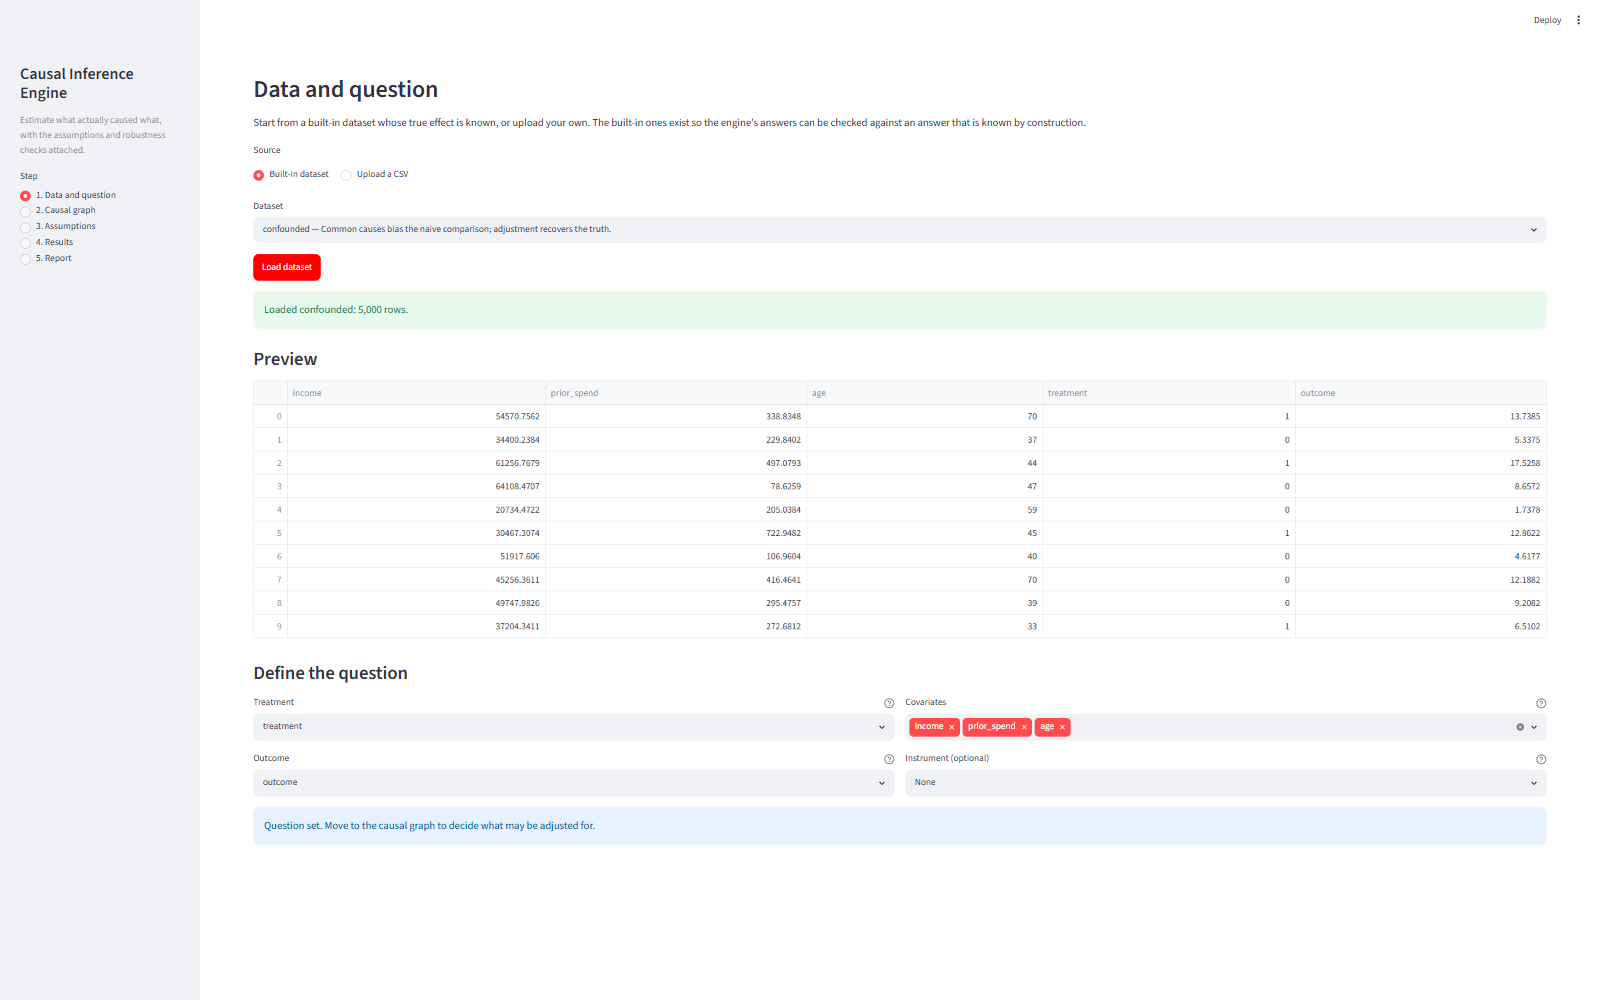
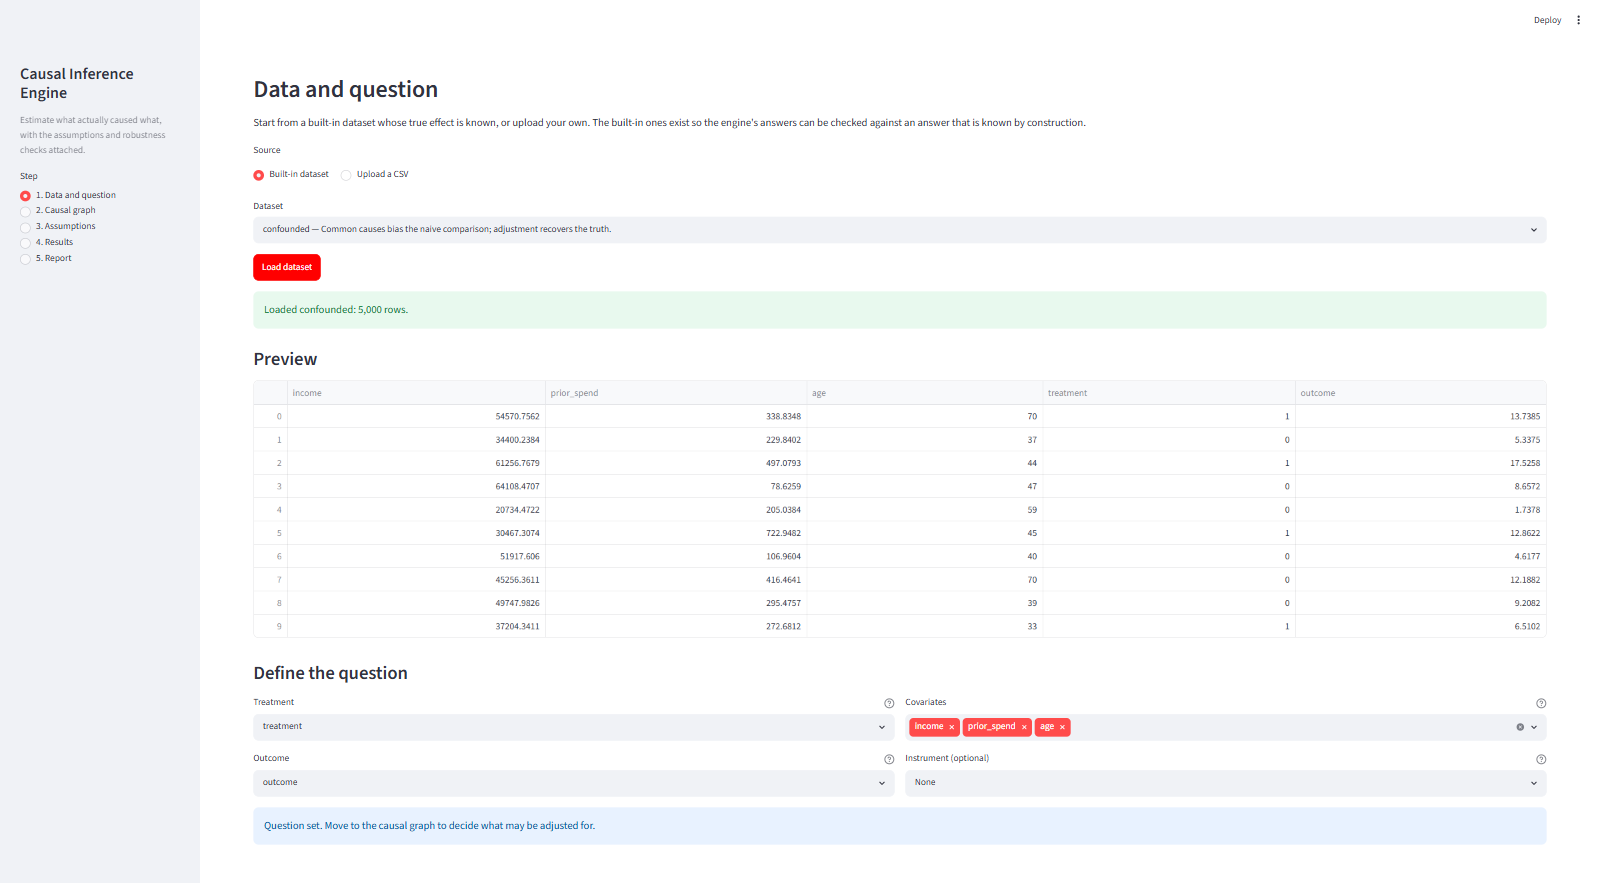
tighten the interface screenshots and say what the empty page means
Every screenshot carried between half and ninety percent dead whitespace, which
made them read as broken rather than deliberate, and they were captured at
inconsistent sizes so they rendered at unrelated scales beside each other.

The page showing no effect size is the one that needed explaining rather than
cropping. It is the guard rail: opening results without opening the assumptions
first withholds every number and gives only the reason. Its caption now says the
emptiness is the point, and the frame keeps the step navigation visible so a
reader can see which step was skipped.

Also recaptured against a freshly started server, which drops the editor's
reload banner from the corner and picks up the graph labels no longer repeating
a variable's name as its own role.

diff --git a/README.md b/README.md
@@ -89,7 +89,10 @@ The average effect is a positive +1.9, which on its own would hide that a quarte
 
 ![Assumptions](docs/ui-assumptions.png)
 
-### Effect sizes stay behind the assumptions page
+### Skip the assumptions and there is deliberately nothing to read
+
+Jumping straight to results without opening the assumptions page shows no effect
+size at all — only the reason one is being withheld. The page is empty on purpose.
 
 ![Gating](docs/ui-gating.png)
 
